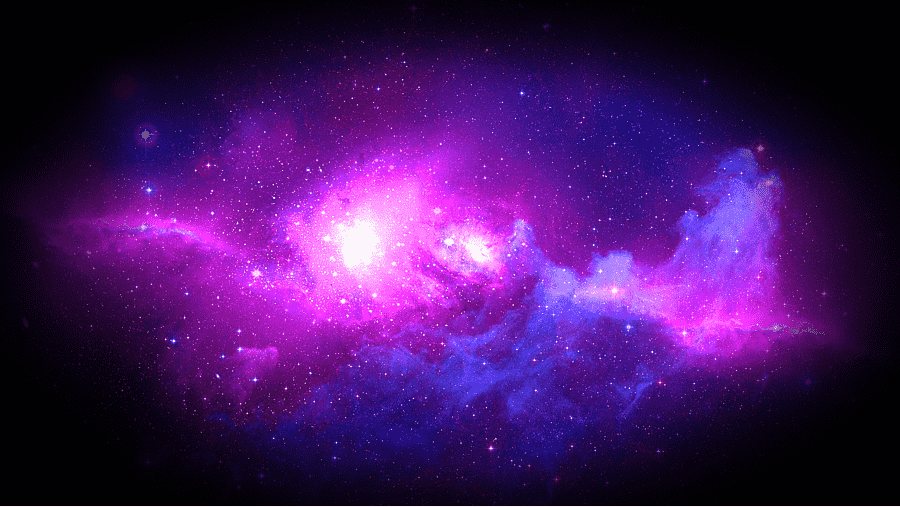
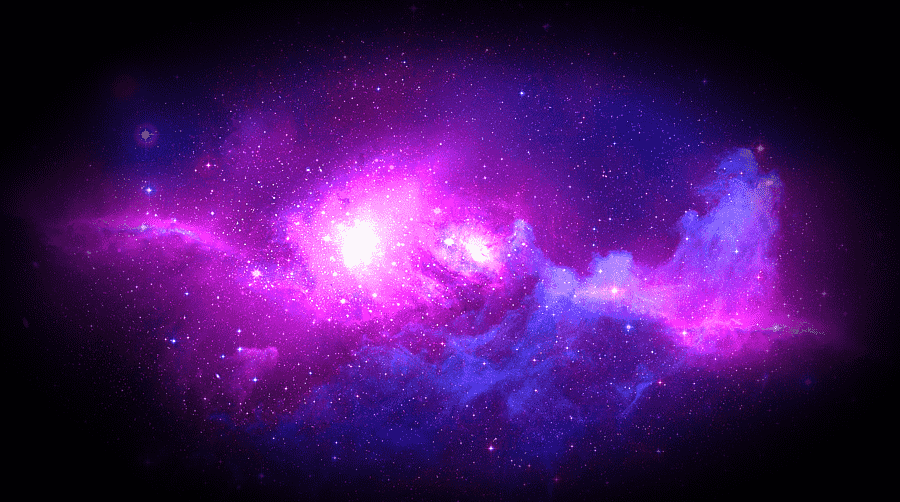
update-juego

Changed region(s): [[0.0622, 0.1494, 0.9022, 0.9562], [0.0, 0.9861, 1.0, 1.0], [0.9022, 0.5677, 0.9333, 0.5976]]

diff --git a/entornos/JuegoPropio/elementos.py b/entornos/JuegoPropio/elementos.py
@@ -5,7 +5,7 @@ class Nave(pygame.sprite.Sprite):
     def __init__(self, posicion) -> None:
         super().__init__()
         #Cargamos la imagen
-        images = [pygame.image.load("helicoptero2.png")]
+        images = [pygame.image.load("astronave.png")]
         self.images = [pygame.transform.scale(images[0],(60,60))]
         self.indice_images = 0
         self.image = self.images[self.indice_images]
@@ -31,17 +31,27 @@ class Nave(pygame.sprite.Sprite):
         pantalla = pygame.display.get_surface()
         #Gestionamos las teclas
         if teclas[pygame.K_LEFT]:
-            self.rect.x -= 6
+            self.rect.x -= 5
             self.rect.x = max(0, self.rect.x)
         #Aqui disparamos.
         if teclas[pygame.K_SPACE]:
             self.disparar(grupo_sprite_todos, grupo_sprite_balas)
         
         if teclas[pygame.K_RIGHT]:
-            self.rect.x += 6
+            self.rect.x += 5
             pantalla = pygame.display.get_surface()
             self.rect.x = min(pantalla.get_width()-self.image.get_width(), self.rect.x)
             
+            
+        if teclas[pygame.K_UP]:
+            self.rect.y -= 2
+            self.rect.y = max(0, self.rect.y)
+            
+        if teclas[pygame.K_DOWN]:
+            self.rect.y += 5
+            pantalla = pygame.display.get_surface()
+            self.rect.y = min(pantalla.get_height()-self.image.get_height(), self.rect.y)
+        
         # if teclas[pygame.K_t]:
         #     texto = self.font.render("+20", True, "White")
         #     pantalla.blit(texto, (pantalla.get_width() /2, pantalla.get_height() /2))
@@ -86,7 +96,7 @@ class Enemigo(pygame.sprite.Sprite):
         super().__init__()
         #Cargamos la imagen
         imagen = pygame.image.load("roca.png")
-        self.image = pygame.transform.scale(imagen,(60,30))
+        self.image = pygame.transform.scale(imagen,(60,40))
         # self.image = pygame.transform.rotate(self.image, 180)
         self.mask = pygame.mask.from_surface(self.image)
         #Cremamos un rectangulo a partir de la imagen
@@ -113,7 +123,7 @@ class Aliado(pygame.sprite.Sprite):
         super().__init__()
         #Cargamos la imagen
         imagen = pygame.image.load("astronauta.png")
-        self.image = pygame.transform.scale(imagen,(60,30))
+        self.image = pygame.transform.scale(imagen,(60,40))
         # self.image = pygame.transform.rotate(self.image, 180)
         self.mask = pygame.mask.from_surface(self.image)
         #Cremamos un rectangulo a partir de la imagen
@@ -138,7 +148,7 @@ class Aliado(pygame.sprite.Sprite):
 class Fondo(pygame.sprite.Sprite):
     def __init__(self, posicion) -> None:
         super().__init__()
-        images = pygame.image.load("Fondo.png")
+        images = pygame.image.load("Fondo3.jpg")
         pantalla = pygame.display.get_surface()
         self.image = pygame.transform.scale(images, (pantalla.get_width(), pantalla.get_height()))
         self.rect = self.image.get_rect()

diff --git a/entornos/JuegoPropio/rescateEspacial.py b/entornos/JuegoPropio/rescateEspacial.py
@@ -7,7 +7,7 @@ pygame.init()
 #Creamos una fuente para la pausa
 font = pygame.font.Font(None, 30)
 #Creamos la pantalla
-tamanyo = (600, 800)
+tamanyo = (700, 800)
 pantalla = pygame.display.set_mode(tamanyo)
 
 
@@ -17,8 +17,8 @@ FPS = 60
 
 ultimo_enemigo_creado = 0
 ultimo_aliado_creado = 0
-frecuencia_creacion_enemigos = 1500
-frecuencia_creacion_aliados = 1500
+frecuencia_creacion_enemigos = 1800
+frecuencia_creacion_aliados = 2000
 
 #Texto del juego
 puntuacion = 0
